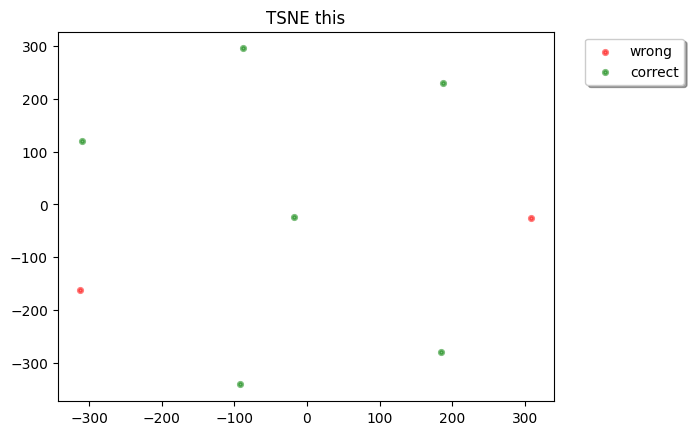
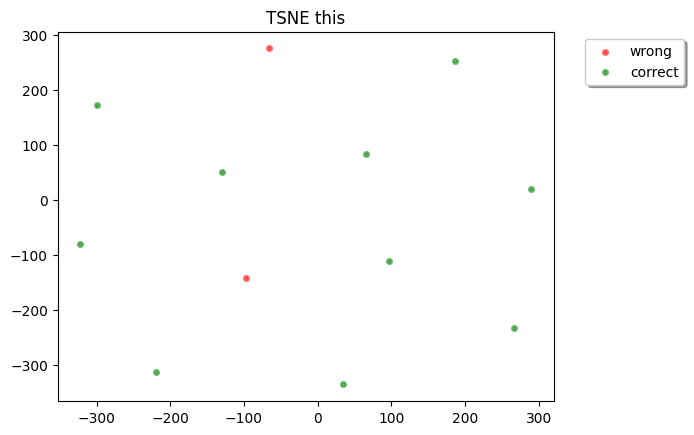
done

diff --git a/subwords/sentence_em.py b/subwords/sentence_em.py
@@ -4,6 +4,8 @@ from pkg_resources import resource_filename
 from subwords.embedding import embeddings
 from transformers import BertTokenizer
 import re
+from subwords.visualation import get_pacmap_pca_tsne_word_vs_x
+from matplotlib import pyplot as plt
 
 
 def sentence_em():
@@ -14,6 +16,8 @@ def sentence_em():
 
     df = pd.read_csv(feature_test_file_path, sep=';')
     result = df.drop("Unnamed: 0", axis=1)
+    ls_wrong = []
+    ls_correct = []
     for index, row in result.iterrows():
         neg_text_input = row['test_input']
         tokenizer = BertTokenizer.from_pretrained('bert-base-uncased')
@@ -33,9 +37,43 @@ def sentence_em():
                 # print(tokenized_text)
                 # print("common tokens: ", common_tokens)
                 # print("different tokens: ", diff_tokens)
+                print(sentence_embeddings)
+                print(tokenized_text)
+                print(common_tokens)
+                print(diff_tokens)
+                wrong_token = []
+                for i in diff_tokens:
+                    index = tokenized_text.index(i)
+                    token_em = sentence_embeddings[index]
+                    wrong_token.append(token_em)
+
+                correct_token = []
+                for i in common_tokens:
+                    index = tokenized_text.index(i)
+                    token_em = sentence_embeddings[index]
+                    correct_token.append(token_em)
+
+                wrong = []
+                for i in range(0, len(wrong_token)):
+                    arr = wrong_token[i].numpy()
+                    wrong.append(arr)
+                correct = []
+                for i in range(0, len(correct_token)):
+                    arr = correct_token[i].numpy()
+                    correct.append(arr)
             except ValueError:
                 print('value error')
-    return sentence_embeddings, tokenized_text, common_tokens, diff_tokens
+        ls_wrong.append(wrong)
+        ls_correct.append(correct)
+    flat_ls_wrong = [item for sublist in ls_wrong for item in sublist]
+    flat_ls_correct = [item for sublist in ls_correct for item in sublist]
+    print("flag", flat_ls_wrong)
+    print("correct", flat_ls_correct)
+    legend_names = ['wrong', 'correct']
+    output_dir = '/Users/wenxu/PycharmProjects/BertModel/subwords'
+    name_title = 'this'
+    get_pacmap_pca_tsne_word_vs_x(flat_ls_wrong, [flat_ls_correct], legend_names, output_dir, name_title)
+
 
     # df = pd.read_csv(feature_pos_file_path, sep=',')
     # for index, row in df.iterrows():

diff --git a/subwords/visualation.py b/subwords/visualation.py
@@ -32,7 +32,7 @@ def get_pacmap_pca_tsne_word_vs_x(word_vec_list: list, other_emb: list, legend_n
     out_pacmap = output_dir.replace(".png", "_PaCMAP.png")
     out_tsne = output_dir.replace(".png", "_TSNE.png")
     os.makedirs(os.path.dirname(out_pca), exist_ok=True)
-    get_visualisation(X_r_pca, y_list, legend_names, out_pca, f"PCA {name_title}")
+    # get_visualisation(X_r_pca, y_list, legend_names, out_pca, f"PCA {name_title}")
     # get_visualisation(X_r_pacmap, y_list, legend_names, out_pacmap, f"PaCMAP {name_title}")
     get_visualisation(X_r_t_sne, y_list, legend_names, out_tsne, f"TSNE {name_title}")
 
@@ -52,7 +52,7 @@ def get_visualisation(X_r, labels, legend_names, output_dir, name_title):
         x_axis[labels[c]].append(X_r[c][0])
         y_axis[labels[c]].append(X_r[c][1])
     for index, target_name in zip(range(0, len(x_axis)), legend_names):
-        ax.scatter(x_axis[index], y_axis[index], c=color_labels[index], cmap='viridis', alpha=0.5, lw=lw,
+        ax.scatter(x_axis[index], y_axis[index], c=color_labels[index], alpha=0.5, lw=lw,
                    label=target_name,
                    s=10)
     legend_ax = ax.legend(bbox_to_anchor=(1.05, 1), loc=2, shadow=True, scatterpoints=1)
